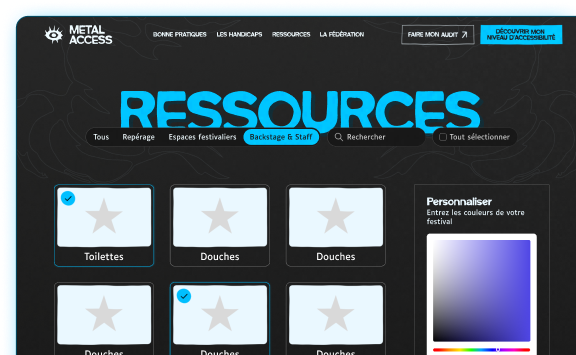
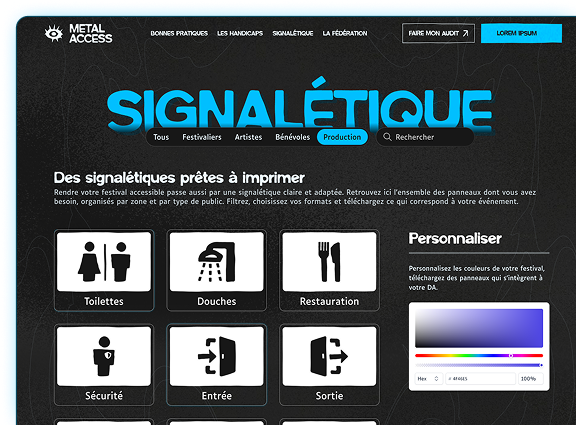
plein modif

diff --git a/src/routes/bonnes-pratiques/+page.svelte b/src/routes/bonnes-pratiques/+page.svelte
@@ -1,5 +1,6 @@
 <script lang="ts">
 	import { formatDate } from '$lib/index.js';
+	import bgAccueil from '$lib/assets/bg_accueil.png';
 
 	let { data } = $props();
 
@@ -31,64 +32,21 @@
 	);
 </script>
 
+<div class="page-wrapper">
+	<img src={bgAccueil} alt="" class="bg-accueil" aria-hidden="true" />
 <div class="pt-24">
 	<section class="px-16 py-24">
 		<h2 class="uppercase text-[150px] leading-[80%] text-theme-blue text-center">
 			Bonnes pratiques
 		</h2>
 		<div class="flex flex-col gap-24">
-			<div class="flex gap-4 justify-center">
-				<div class="flex rounded-5xl border border-white/20 overflow-hidden p-1">
-					<div>
-						<input
-							type="radio"
-							name="filter"
-							id="filter_all"
-							value="all"
-							class="peer sr-only"
-							checked
-						/>
-						<label
-							for="filter_all"
-							class="px-4 py-2 bg-theme-black text-theme-white cursor-pointer peer-checked:bg-theme-blue peer-checked:text-theme-black rounded-5xl block"
-							>Tous</label
-						>
-					</div>
-					<div>
-						<input
-							type="radio"
-							name="filter"
-							id="filter2"
-							value="Bonnes pratiques"
-							class="peer sr-only"
-						/>
-						<label
-							for="filter2"
-							class="px-4 py-2 bg-theme-black text-theme-white cursor-pointer peer-checked:bg-theme-blue peer-checked:text-theme-black rounded-5xl block"
-							>Bonnes pratiques</label
-						>
-					</div>
-					<div>
-						<input
-							type="radio"
-							name="filter"
-							id="filter3"
-							value="Nouveautés"
-							class="peer sr-only"
-						/>
-						<label
-							for="filter3"
-							class="px-4 py-2 bg-theme-black text-theme-white cursor-pointer peer-checked:bg-theme-blue peer-checked:text-theme-black rounded-5xl block"
-							>Nouveautés</label
-						>
-					</div>
-				</div>
+			<div class="flex justify-center">
 				<input
 					type="text"
 					name="search"
 					id="search"
 					placeholder="Rechercher..."
-					class="text-white/70 px-4.5 bg-theme-black border border-white/20 rounded-4xl py-2"
+					class="text-white/70 px-4.5 bg-theme-black border border-white/60 rounded-4xl py-2 w-full max-w-[500px]"
 				/>
 			</div>
 			<div class="flex gap-10">
@@ -132,7 +90,7 @@
 						</a>
 					{/each}
 				</div>
-				<div class="flex-1 flex flex-col gap-10 text-theme-white">
+				<div class="flex-1 flex flex-col gap-10 text-theme-white sticky top-24 self-start">
 					<div class="flex flex-col gap-6">
 						<h3 class="text-4.5xl leading-none">Filtrer</h3>
 						<hr />
@@ -186,3 +144,21 @@
 		</div>
 	</section>
 </div>
+</div>
+
+<style>
+	.page-wrapper {
+		position: relative;
+	}
+
+	.bg-accueil {
+		position: absolute;
+		inset: 0;
+		width: 100%;
+		height: 100%;
+		object-fit: cover;
+		mix-blend-mode: screen;
+		pointer-events: none;
+		z-index: 0;
+	}
+</style>

diff --git a/src/routes/+page.svelte b/src/routes/+page.svelte
@@ -6,13 +6,34 @@
 	import SliderHandicap from '$lib/components/Homepage/SliderHandicap.svelte';
 	// import Loader from '$lib/components/Loader.svelte';
 	import Deploiement from '$lib/components/Homepage/Deploiement.svelte';
+	import bgAccueil from '$lib/assets/bg_accueil.png';
 </script>
 
 <!-- <Loader /> -->
 
-<Hero />
-<ChiffresCles />
-<BonnesPratiques />
-<Signaletiques />
-<SliderHandicap />
-<Deploiement />
+<div class="page-wrapper">
+	<img src={bgAccueil} alt="" class="bg-accueil" aria-hidden="true" />
+	<Hero />
+	<ChiffresCles />
+	<BonnesPratiques />
+	<Signaletiques />
+	<SliderHandicap />
+	<Deploiement />
+</div>
+
+<style>
+	.page-wrapper {
+		position: relative;
+	}
+
+	.bg-accueil {
+		position: absolute;
+		inset: 0;
+		width: 100%;
+		height: 100%;
+		object-fit: cover;
+		mix-blend-mode: screen;
+		pointer-events: none;
+		z-index: 0;
+	}
+</style>

diff --git a/src/routes/federation/+page.svelte b/src/routes/federation/+page.svelte
@@ -1,4 +1,5 @@
 <script>
+	import bgAccueil from '$lib/assets/bg_accueil.png';
 	let sectionShowed = $state('a-propos');
 
 	const menu = [
@@ -8,6 +9,8 @@
 	];
 </script>
 
+<div class="page-wrapper">
+	<img src={bgAccueil} alt="" class="bg-accueil" aria-hidden="true" />
 <div class="pt-24">
 	<section class="px-16 py-24">
 		<h2 class="uppercase text-[150px] leading-[80%] text-theme-blue text-center">La fédé</h2>
@@ -121,7 +124,7 @@
 					</div>
 				{/if}
 			</div>
-			<div class="flex-1">
+			<div class="flex-1 sticky top-24 self-start">
 				{#each menu as item, i (i)}
 					<button
 						onclick={() => (sectionShowed = item.id)}
@@ -145,3 +148,21 @@
 		</div>
 	</section>
 </div>
+</div>
+
+<style>
+	.page-wrapper {
+		position: relative;
+	}
+
+	.bg-accueil {
+		position: absolute;
+		inset: 0;
+		width: 100%;
+		height: 100%;
+		object-fit: cover;
+		mix-blend-mode: screen;
+		pointer-events: none;
+		z-index: 0;
+	}
+</style>

diff --git a/src/routes/signaletique/+page.svelte b/src/routes/signaletique/+page.svelte
@@ -1,6 +1,7 @@
 <script>
 	import AsideRessource from '$lib/components/AsideRessource.svelte';
 	import downloadIcon from '$lib/assets/download.svg';
+	import bgAccueil from '$lib/assets/bg_accueil.png';
 
 	const tags = ['Backstage & staff', 'Festivaliers', 'Artistes', 'Bénévoles', 'Production'];
 
@@ -238,6 +239,8 @@
 	</div>
 {/snippet}
 
+<div class="page-wrapper">
+	<img src={bgAccueil} alt="" class="bg-accueil" aria-hidden="true" />
 <div class="pt-24">
 	<section class="flex flex-col gap-16 px-16 py-24">
 		<h2 class="uppercase text-[150px] leading-[80%] text-theme-blue text-center">Signalétique</h2>
@@ -353,6 +356,25 @@
 	</section>
 </div>
 
+</div>
+
 {#if selectedRessource}
 	<AsideRessource {closeAside} {selectedRessource} />
 {/if}
+
+<style>
+	.page-wrapper {
+		position: relative;
+	}
+
+	.bg-accueil {
+		position: absolute;
+		inset: 0;
+		width: 100%;
+		height: 100%;
+		object-fit: cover;
+		mix-blend-mode: screen;
+		pointer-events: none;
+		z-index: 0;
+	}
+</style>

diff --git a/src/lib/components/Homepage/BonnesPratiques.svelte b/src/lib/components/Homepage/BonnesPratiques.svelte
@@ -1,10 +1,15 @@
-<section class="px-16 flex flex-col gap-10 py-48">
-	<h2 class="text-7xl leading-none text-theme-white">
+<script>
+	import elementDeco from '$lib/assets/element_deco.png';
+</script>
+
+<section class="relative px-16 flex flex-col gap-10 py-48">
+	<img src={elementDeco} alt="" class="absolute top-1/2 left-1/2 -translate-x-1/2 -translate-y-1/2 pointer-events-none z-0" aria-hidden="true" />
+	<h2 class="relative z-[1] text-7xl leading-none text-theme-white">
 		<span class="text-theme-blue"> Qu'est-ce que l'accessibilité </span>
 		<br />
 		pour un festival ?
 	</h2>
-	<div>
+	<div class="relative z-[1]">
 		<div
 			class="flex justify-between items-center gap-16 border-b border-theme-white w-full px-16 h-33"
 		>

diff --git a/src/lib/components/Homepage/Deploiement.svelte b/src/lib/components/Homepage/Deploiement.svelte
@@ -1,9 +1,11 @@
 <script>
 	import arrowRightBlue from '$lib/assets/arrow-right-blue.svg';
+	import elementDecoSecLast from '$lib/assets/element_deco_sec_last.svg';
 </script>
 
-<section class="px-16 py-24 flex flex-col gap-16">
-	<div class="flex flex-col gap-16 max-w-1/2">
+<section class="relative px-16 py-24 flex flex-col gap-16">
+	<img src={elementDecoSecLast} alt="" aria-hidden="true" class="absolute top-1/2 left-1/2 -translate-x-1/2 -translate-y-1/2 pointer-events-none z-0" />
+	<div class="relative z-[1] flex flex-col gap-16 max-w-1/2">
 		<h2 class="text-7xl text-theme-white leading-none">
 			<span class="text-theme-blue">Tout ce qu'il vous faut</span>, <br /> prêt à déployer
 		</h2>
@@ -21,7 +23,7 @@
 			</a>
 		</div>
 	</div>
-	<div class="flex gap-16 text-theme-white">
+	<div class="relative z-[1] flex gap-16 text-theme-white">
 		<a
 			href="/signaletique"
 			class="px-8 py-16 flex flex-col gap-16 border border-theme-lightGrey group transition-all duration-300 hover:border-theme-blue hover:bg-theme-blue/20 cursor-pointer"

diff --git a/src/lib/components/Homepage/Signaletiques.svelte b/src/lib/components/Homepage/Signaletiques.svelte
@@ -1,15 +1,17 @@
 <script>
 	import ressources from '$lib/assets/ressources.png';
+	import elementDecoSignal from '$lib/assets/element_deco_signal.svg';
 </script>
 
 <section class="px-16 py-24">
 	<div
 		class="relative border border-theme-darkBlue/80 p-16 flex flex-col gap-16 rounded-xl overflow-hidden"
 	>
-		<h2 class="text-7xl leading-none text-theme-white">
+		<img src={elementDecoSignal} alt="" aria-hidden="true" class="absolute top-0 left-1/2 -translate-x-1/2 pointer-events-none z-0 opacity-75" />
+		<h2 class="relative z-[1] text-7xl leading-none text-theme-white">
 			<span class="text-theme-blue">Votre signalétique</span> <br /> à vos couleurs
 		</h2>
-		<div class="flex flex-col gap-8">
+		<div class="relative z-[1] flex flex-col gap-8">
 			<p class="text-theme-white leading-[130%] max-w-108">
 				Un festival accessible, c'est pas juste une rampe d'accès et une case cochée. C'est repenser
 				chaque moment de l'expérience : l'arrivée sur site, la signalétique, le son, les espaces de

diff --git a/src/routes/bonnes-pratiques/rendre-son-festival-metal-accessible-a-toutes-et-tous/+page.svelte b/src/routes/bonnes-pratiques/rendre-son-festival-metal-accessible-a-toutes-et-tous/+page.svelte
@@ -81,7 +81,7 @@
 				</div>
 			</div>
 		</div>
-		<div class="flex-1">
+		<div class="flex-1 sticky top-24 self-start">
 			{#each menu as item, i (i)}
 				<a
 					href={'#' + item.id}